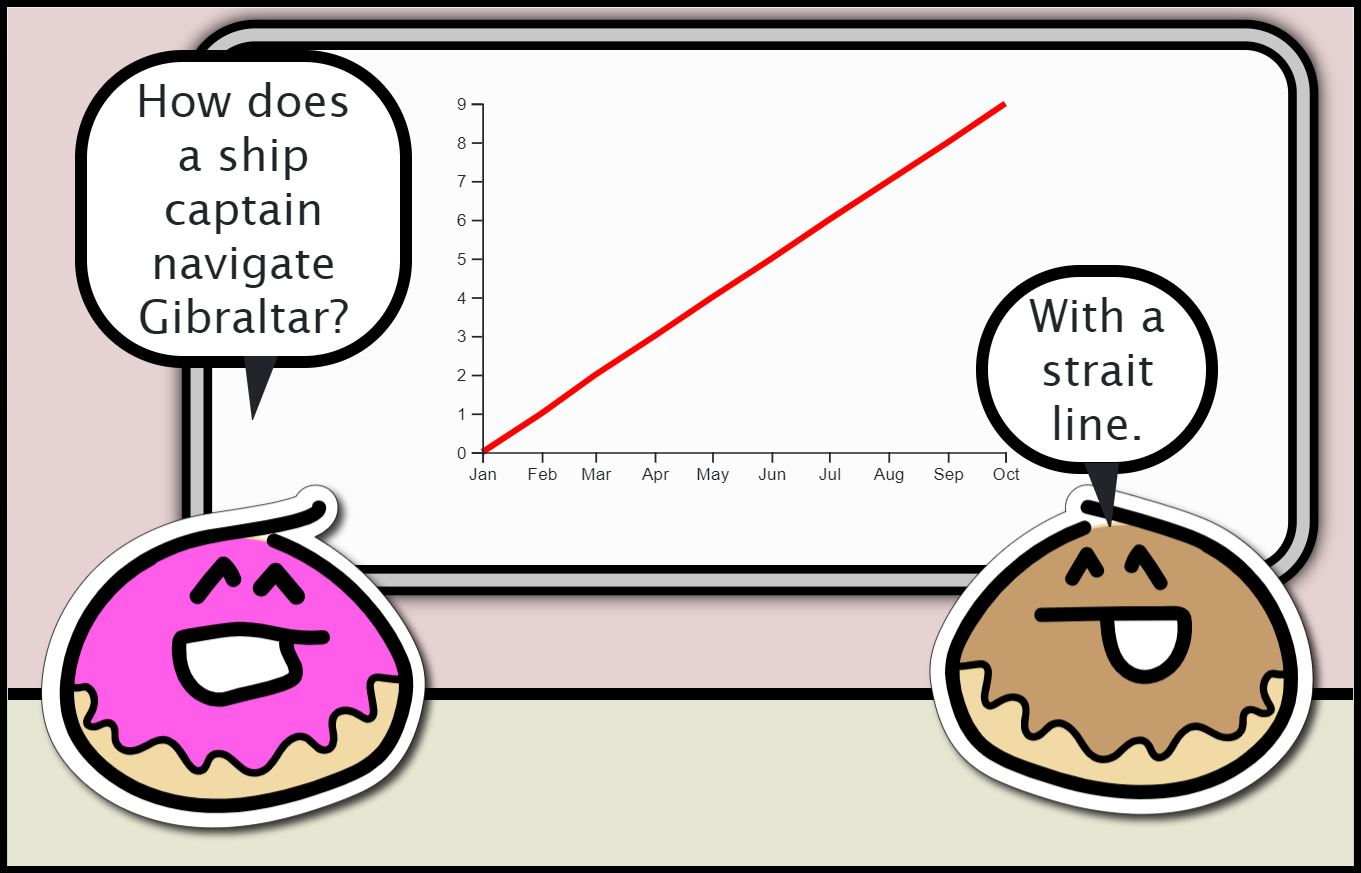
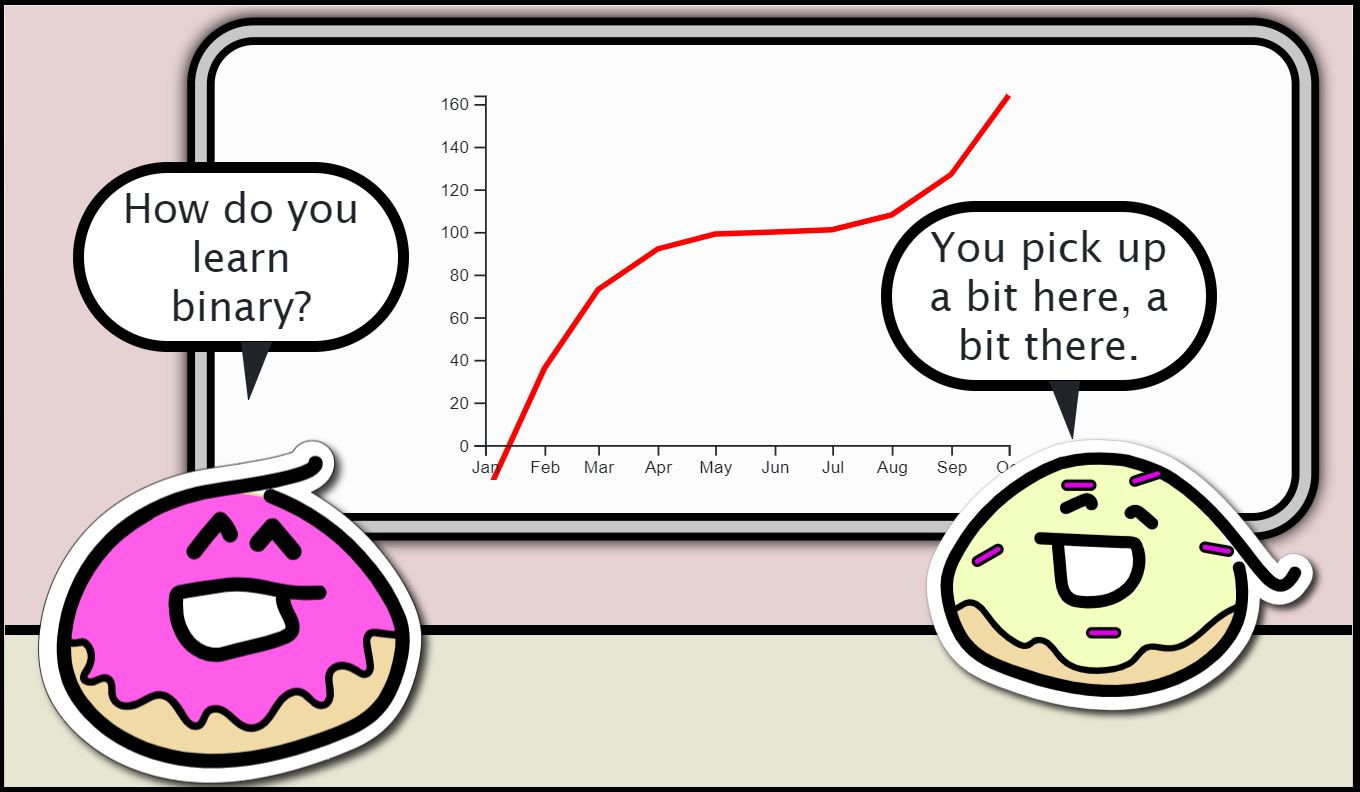
text updates, bdayCake

diff --git a/viz_linecharts/comic.html b/viz_linecharts/comic.html
@@ -62,12 +62,12 @@
                             <img src="/svg/don3ts/donut_strawberry.svg">
                         </div>
                         <div class="chocolateDonut">
-                            <img src="/svg/don3ts/donut_chocolate.svg">
+                            <img src="/svg/don3ts/donut_bdayCake.svg">
                         </div>
-                        <div class="chatbubble workbubble strawberrysays">How does a ship captain navigate Gibraltar?
+                        <div class="chatbubble workbubble strawberrysays">How do you learn binary?
                             <div class="chatarrow strawberrysays"></div>
                         </div>
-                        <div class="chatbubble workbubble chocolatesays">With a strait line.
+                        <div class="chatbubble workbubble chocolatesays">You pick up a bit here, a bit there.
                             <div class="chatarrow chocolatesays"></div>
                         </div>
                     </div>
@@ -114,11 +114,11 @@
         //   y: a numeric value
         function dataElement(date, y){
             this.date = date;
-            this.y = y;
+            this.y = Math.pow((3*y-5), 3) + y;
         }
     
         // Create a set of 10 dataElements.
-        for(i = 0; i < 10; i++){
+        for(i = 0; i &lt; 10; i++){
             // Create a new date
             theDate = new Date(2021, 0, 1)
             // Add i months to the date

diff --git a/viz_linecharts/script.js b/viz_linecharts/script.js
@@ -10,9 +10,10 @@ document.addEventListener("DOMContentLoaded", function(){
     // properties:
     //   date: a dateTime object
     //   y: a numeric value
-    function dataElement(date, y){
+    //   factor: user manipulation factor
+    function dataElement(date, y, factor = 0){
         this.date = date;
-        this.y = y;
+        this.y = Math.pow(((1+factor/10)*y-5), 3) + 100;
     }
 
     // Create a set of 10 dataElements.
@@ -25,6 +26,27 @@ document.addEventListener("DOMContentLoaded", function(){
     }
 
     representData(viz_svg01, dataObj);
+
+    // If the user changes the X slider, adjust the color of the map elements
+    $('#formControlRangeX').on('input', function(event){
+        dataObj = [];
+        // Get the input from the slider.
+        userVal = parseFloat($(event.currentTarget).prop('value'));
+
+        // Clear the svg
+        viz_svg01.selectAll('svg > *').remove();
+
+        // Create a set of 10 dataElements.
+        for(i = 0; i < 10; i++){
+            // Create a new date
+            theDate = new Date(2021, 0, 1)
+            // Add i months to the date
+            theDate.setMonth(theDate.getMonth() + i);
+            dataObj.push(new dataElement(theDate, i, userVal));
+        }
+
+        representData(viz_svg01, dataObj);
+    })
 })
 
 function representData(location, data){

diff --git a/viz_linecharts/style.css b/viz_linecharts/style.css
@@ -90,9 +90,9 @@ body{
 
 .chatbubble.chocolatesays {
     position: absolute;
-    top: 30%;
+    top: 25%;
     right: 10%;
-    width: 18%;
+    width: 25%;
 }
 
 .chatarrow.chocolatesays {
@@ -105,7 +105,7 @@ body{
 }
 
 .chatbubble.strawberrysays {
-    top: 5%;
+    top: 20%;
     left: 5%;
     width: 25%;
 }
